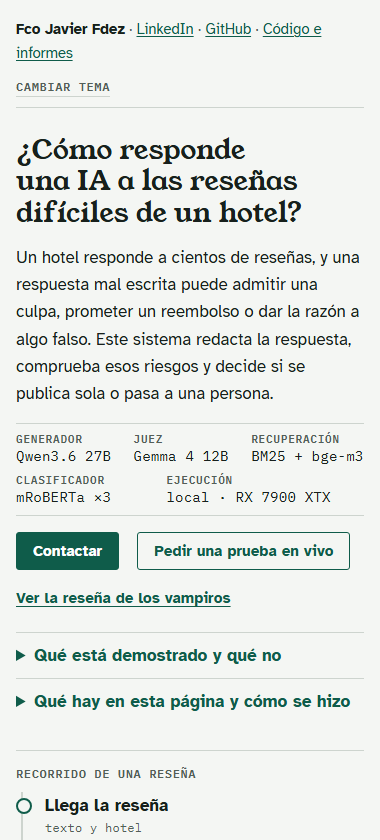
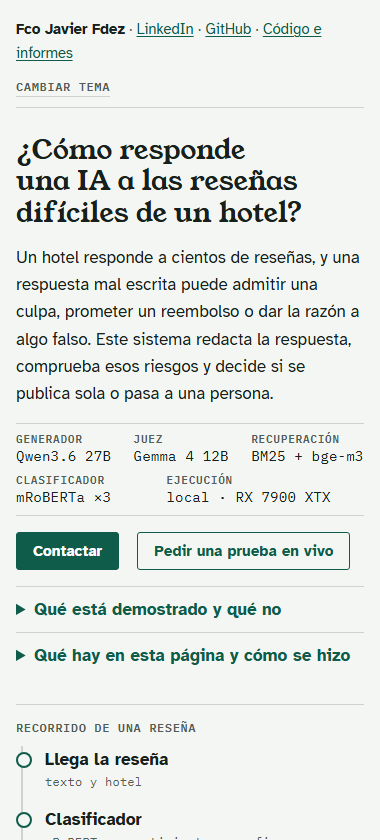
Repetición: abre con el paso 1 del recorrido y sin enlace a los vampiros en la cabecera
Sin enlace a un caso, la página muestra el primer paso del recorrido guiado (p18). La reseña de
los vampiros sigue en el selector y en el recorrido.

Changed region(s): [[0.0289, 0.7738, 0.9263, 1.0], [0.0289, 0.681, 0.7526, 0.7429], [0.6658, 0.9905, 0.6947, 1.0]]

diff --git a/docs/index.html b/docs/index.html
@@ -98,7 +98,6 @@ p { margin: 0; }
   padding: 9px 16px; cursor: pointer; text-decoration: none; white-space: nowrap; }
 .btn.primary { background: var(--accent); color: var(--accent-ink); border: 1px solid var(--accent); }
 .btn.secondary { background: none; color: var(--accent); border: 1px solid var(--accent); }
-.btn.link { background: none; color: var(--accent); border: 0; padding: 9px 0; text-decoration: underline; text-underline-offset: 3px; }
 .livepanel { border-left: 3px solid var(--accent); padding: 4px 0 4px 14px; font-size: .95rem; max-width: 70ch; }
 details.fold { max-width: 70ch; border-top: 1px solid var(--rule); }
 details.fold summary { cursor: pointer; padding: 9px 0; font-weight: 700; color: var(--accent); }
@@ -234,7 +233,6 @@ footer { margin-top: 34px; color: var(--muted); font-size: .86rem; border-top: 1
       <div class="actions">
         <a class="btn primary" href="https://www.linkedin.com/in/franciscojavier-fernandezrumi/" target="_blank" rel="noopener">Contactar</a>
         <button class="btn secondary" id="livebtn" type="button" aria-expanded="false" aria-controls="livepanel">Pedir una prueba en vivo</button>
-        <a class="btn link" href="#vampiros">Ver la reseña de los vampiros</a>
       </div>
       <p class="livepanel" id="livepanel" hidden>Esta página repite resultados ya generados: aquí no se ejecuta ningún modelo. Envíame por <a href="https://www.linkedin.com/in/franciscojavier-fernandezrumi/" target="_blank" rel="noopener">LinkedIn</a> hasta 5 reseñas, inventadas o reales sin datos personales, y en una sesión en directo desde mi ordenador verás, para cada una, la respuesta, si se publicaría o pasaría a una persona y por qué, y cuánto tarda.</p>
       <div>
@@ -2021,7 +2019,7 @@ footer { margin-top: 34px; color: var(--muted); font-size: .86rem; border-top: 1
   }
 
   function show(id) {
-    const c = byId[id] || byId[order[0]];
+    const c = byId[id] || byId[tour[0].id];  // sin enlace a un caso: el paso 1 del recorrido
     select.value = c.id;
     if (location.hash.slice(1) !== c.id) history.replaceState(null, "", "#" + c.id);
     const failed = c.judge.filter(j => !j.cumple).length, total = c.judge.length;

diff --git a/scripts/replay_template.html b/scripts/replay_template.html
@@ -98,7 +98,6 @@ p { margin: 0; }
   padding: 9px 16px; cursor: pointer; text-decoration: none; white-space: nowrap; }
 .btn.primary { background: var(--accent); color: var(--accent-ink); border: 1px solid var(--accent); }
 .btn.secondary { background: none; color: var(--accent); border: 1px solid var(--accent); }
-.btn.link { background: none; color: var(--accent); border: 0; padding: 9px 0; text-decoration: underline; text-underline-offset: 3px; }
 .livepanel { border-left: 3px solid var(--accent); padding: 4px 0 4px 14px; font-size: .95rem; max-width: 70ch; }
 details.fold { max-width: 70ch; border-top: 1px solid var(--rule); }
 details.fold summary { cursor: pointer; padding: 9px 0; font-weight: 700; color: var(--accent); }
@@ -234,7 +233,6 @@ footer { margin-top: 34px; color: var(--muted); font-size: .86rem; border-top: 1
       <div class="actions">
         <a class="btn primary" href="__LINKEDIN__" target="_blank" rel="noopener">Contactar</a>
         <button class="btn secondary" id="livebtn" type="button" aria-expanded="false" aria-controls="livepanel">Pedir una prueba en vivo</button>
-        <a class="btn link" href="#vampiros">Ver la reseña de los vampiros</a>
       </div>
       <p class="livepanel" id="livepanel" hidden>Esta página repite resultados ya generados: aquí no se ejecuta ningún modelo. Envíame por <a href="__LINKEDIN__" target="_blank" rel="noopener">LinkedIn</a> hasta 5 reseñas, inventadas o reales sin datos personales, y en una sesión en directo desde mi ordenador verás, para cada una, la respuesta, si se publicaría o pasaría a una persona y por qué, y cuánto tarda.</p>
       <div>
@@ -391,7 +389,7 @@ footer { margin-top: 34px; color: var(--muted); font-size: .86rem; border-top: 1
   }
 
   function show(id) {
-    const c = byId[id] || byId[order[0]];
+    const c = byId[id] || byId[tour[0].id];  // sin enlace a un caso: el paso 1 del recorrido
     select.value = c.id;
     if (location.hash.slice(1) !== c.id) history.replaceState(null, "", "#" + c.id);
     const failed = c.judge.filter(j => !j.cumple).length, total = c.judge.length;

diff --git a/scripts/verificar_replay.py b/scripts/verificar_replay.py
@@ -23,7 +23,7 @@ SHOTS = ROOT / "docs" / "screenshots"
 # Texto sobre fondo de color: selector del elemento cuyo color y fondo se comparan
 CONTRAST = [".pill.ok", ".pill.no", ".pill.partial", ".pill.mode", ".pill.neutral", ".note",
             ".rating p", ".rating .head", ".alertbox", ".stamp", ".reasons li",
-            ".spec dt", ".spec dd", ".label", ".btn.link", ".btn.primary", "mark",
+            ".spec dt", ".spec dd", ".label", ".btn.primary", "mark",
             ".inspect td", ".criterion p", ".flow li span"]  # fmt: skip
 
 
